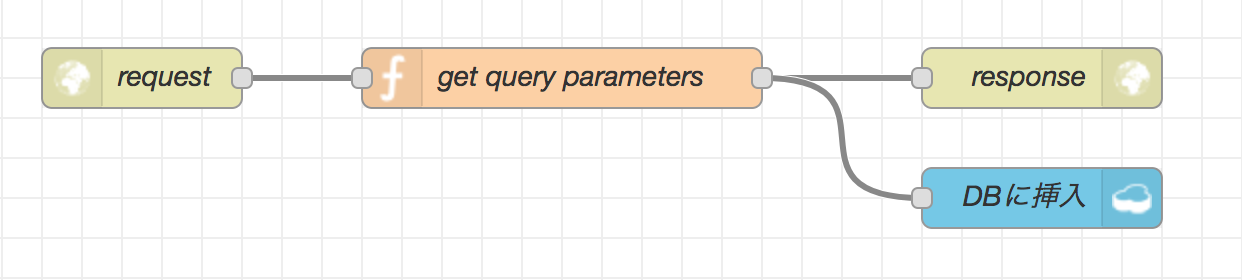
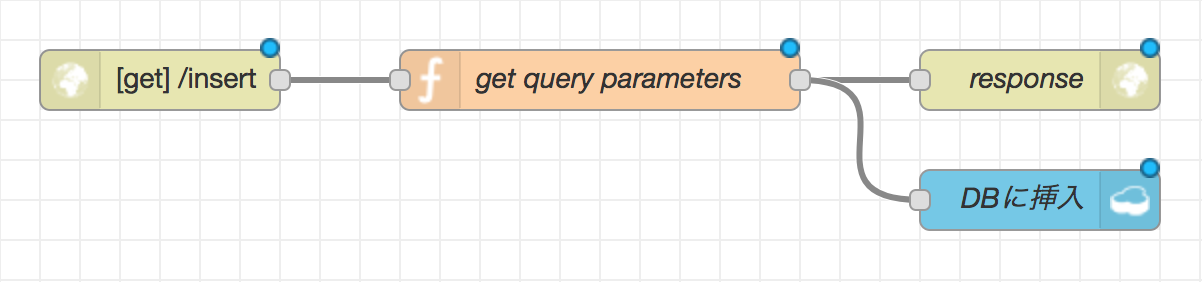
要求例追加

Changed region(s): [[0.0308, 0.1143, 0.985, 0.8286]]

diff --git a/insert-data-to-cloudant/README.md b/insert-data-to-cloudant/README.md
@@ -5,7 +5,7 @@
 Cloudantにデータを挿入するレシピ
 
 ```
-[{"id":"b0a8c852.1f8528","type":"cloudant out","z":"36d10e5c.529692","name":"DBに挿入","cloudant":"26bf61ce.481e1e","database":"person","service":"_ext_","payonly":true,"operation":"insert","x":540,"y":260,"wires":[]},{"id":"9328e905.7a0ab8","type":"http in","z":"36d10e5c.529692","name":"request","url":"/insert","method":"get","upload":false,"swaggerDoc":"","x":90,"y":200,"wires":[["390256d.c9f0faa"]]},{"id":"eef5cf00.fa75f","type":"http response","z":"36d10e5c.529692","name":"response","statusCode":"","headers":{},"x":540,"y":200,"wires":[]},{"id":"390256d.c9f0faa","type":"function","z":"36d10e5c.529692","name":"get query parameters","func":"msg.payload = {name: msg.req.query.name, age: Number(msg.req.query.age)};\nreturn msg;","outputs":1,"noerr":0,"x":300,"y":200,"wires":[["eef5cf00.fa75f","b0a8c852.1f8528"]]},{"id":"26bf61ce.481e1e","type":"cloudant","z":"","host":"843940a3-ff48-4dd8-825d-c9af03bee780-bluemix.cloudant.com","name":""}]
+[{"id":"e65c9690.2a5e48","type":"cloudant out","z":"4faf54ca.3a4afc","name":"DBに挿入","cloudant":"39fc1d1a.aae2f2","database":"person","service":"_ext_","payonly":true,"operation":"insert","x":540,"y":120,"wires":[]},{"id":"d00907d9.36f0c8","type":"http in","z":"4faf54ca.3a4afc","name":"","url":"/insert","method":"get","upload":false,"swaggerDoc":"","x":100,"y":60,"wires":[["356b9771.cba1b8"]]},{"id":"47f0b616.c94c08","type":"http response","z":"4faf54ca.3a4afc","name":"response","statusCode":"","headers":{},"x":540,"y":60,"wires":[]},{"id":"356b9771.cba1b8","type":"function","z":"4faf54ca.3a4afc","name":"get query parameters","func":"msg.payload = {name: msg.req.query.name, age: Number(msg.req.query.age)};\nreturn msg;","outputs":1,"noerr":0,"x":320,"y":60,"wires":[["47f0b616.c94c08","e65c9690.2a5e48"]]},{"id":"39fc1d1a.aae2f2","type":"cloudant","z":"","host":"843940a3-ff48-4dd8-825d-c9af03bee780-bluemix.cloudant.com","name":""}]
 ```
 
 Cloudant 資格情報（例）
@@ -18,3 +18,5 @@ Cloudant 資格情報（例）
   "url": "https://843940a3-ff48-4dd8-825d-c9af03bee780-bluemix:7152100f4b2e76fd853fcbb3f14046f6ad6d142c51451054a5fc4ae5dafb4b5c@843940a3-ff48-4dd8-825d-c9af03bee780-bluemix.cloudant.com"
 }
 ```
+
+要求例: https://nodered-recipes-sample.mybluemix.net/insert?name=hoge&age=20
